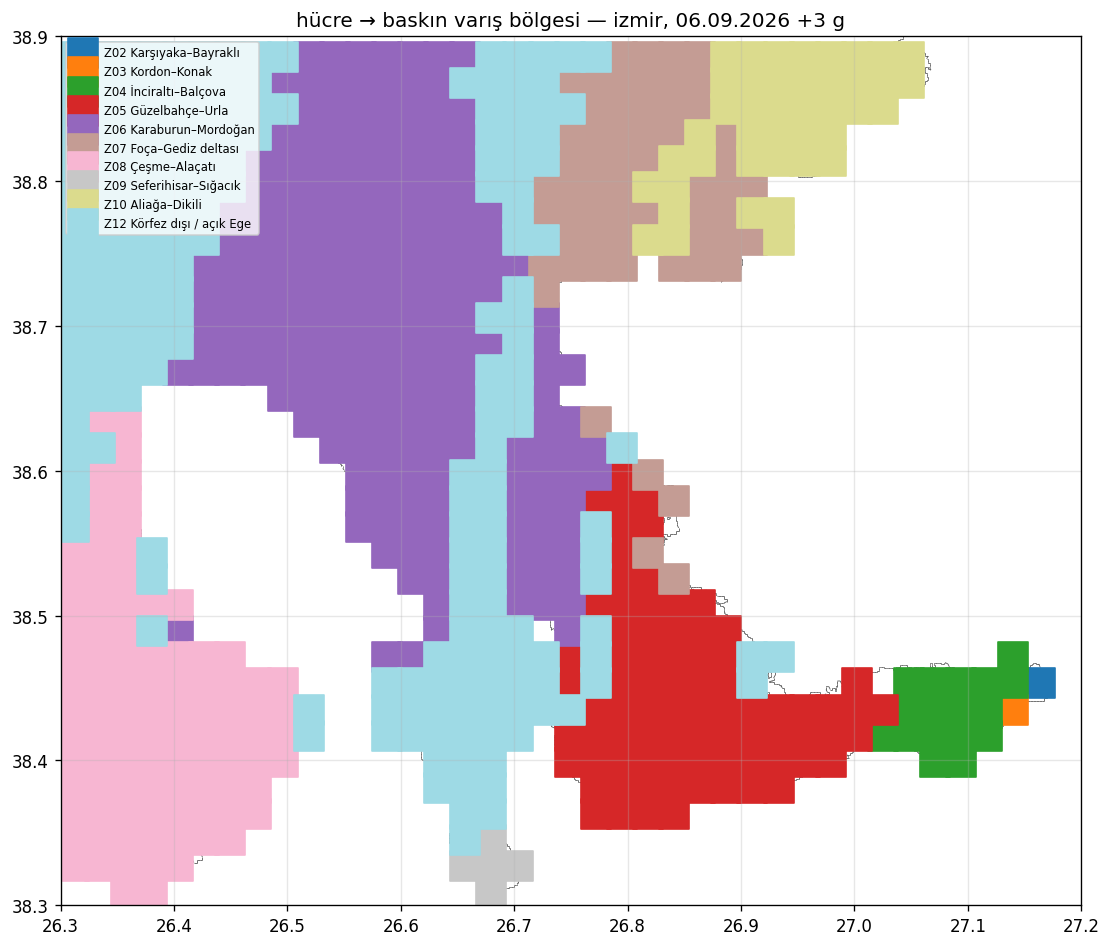
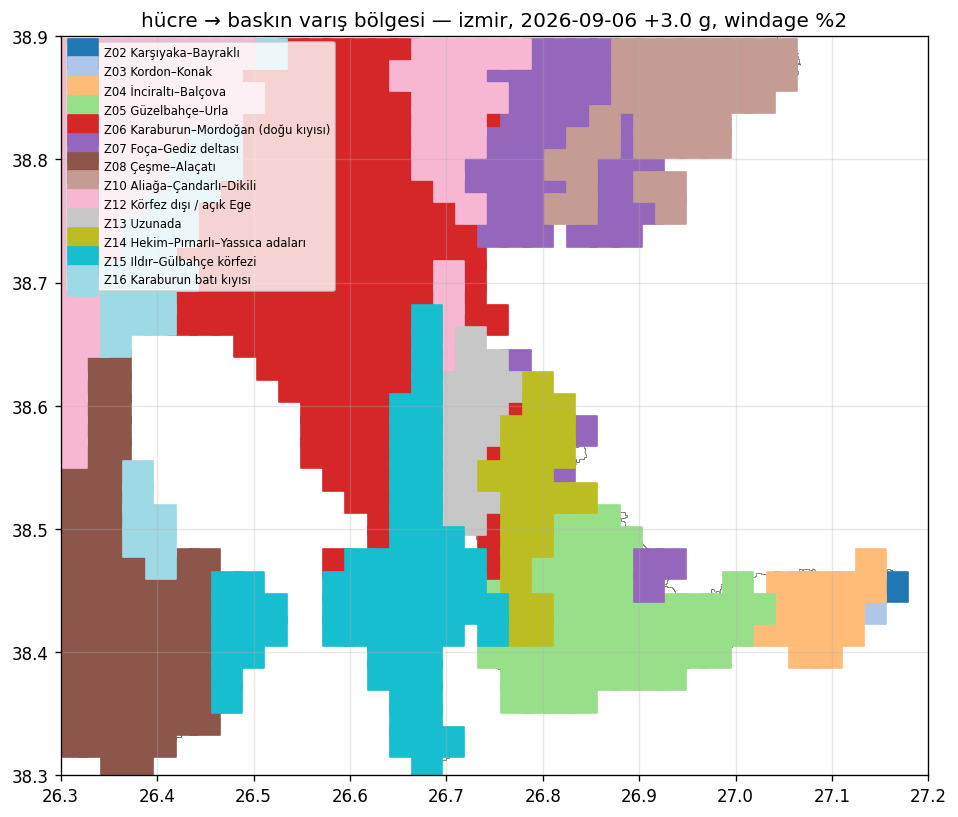
Kıyı bölgeleri yenilendi (adalar, Ildır, Karaburun batısı); toplulaştırma od_agg.py'de; 43_rezone.py
- coast_zones.csv: sıralı kutular, Z13–Z16, Z07/Z10 genişletme; Z00 tanımsız-kıyı uyarısı
- od_agg.py: bölge ataması, matrix/endpoints/geojson/görsel (41/42 ortak)
- 43_rezone.py: var olan koşuyu yeniden toplulaştır (origins.csv yoksa cells.geojson'dan)
- docs: ızgara sonucu ve Z12 analizi, karar kaydı

Claude-Session: https://claude.ai/code/session_01AkYXTcf6PzwN6k3LTpqAoM

diff --git a/scripts/od_agg.py b/scripts/od_agg.py
@@ -1,0 +1,142 @@
+"""OpenDrift sonuçlarını toplulaştırma (41/42/43 ortak): kıyı bölgesi ataması, matris, geojson, görsel.
+
+Bölge ataması: config/coast_zones.csv'deki kutular SIRAYLA denenir (ilk eşleşen kazanır; adalar büyük kutulardan önce).
+Kıyıya vuran ama hiçbir kutuya girmeyen nokta: model alanı (B_model) içindeyse "Z00 tanımsız kıyı" (uyarı basılır —
+kutu eksik demektir), dışındaysa "Z12 alan dışı". Denizde kalanlar da Z12 sayılır (bağlantı matrisinde "ulaşmadı").
+"""
+from __future__ import annotations
+import csv, json
+from pathlib import Path
+import numpy as np
+
+from common import CFG, bbox
+
+COSLAT = np.cos(np.deg2rad(38.5))
+Z00 = ("Z00", "tanımsız kıyı (kutu eksik)")
+
+def zones():
+    rows = list(csv.DictReader(open(CFG / "coast_zones.csv", encoding="utf-8")))
+    def fl(v):
+        try: return float(v)
+        except (TypeError, ValueError): return None
+    return [(r["zone_id"], r["name"], *(fl(r.get(k)) for k in ("lon_min", "lon_max", "lat_min", "lat_max"))) for r in rows]
+
+def zone_of(lon, lat, Z, dom=None):
+    for zid, name, x0, x1, y0, y1 in Z:
+        if x0 is None: continue
+        if x0 <= lon <= x1 and y0 <= lat <= y1: return zid, name
+    if dom is not None and dom[0] <= lon <= dom[1] and dom[2] <= lat <= dom[3]: return Z00
+    return "Z12", "Körfez dışı / açık Ege"
+
+def zone_names(Z):
+    d = {z[0]: z[1] for z in Z}; d[Z00[0]] = Z00[1]; return d
+
+def assign_zones(lon, lat, stranded):
+    """Dizi halinde bölge kimliği; denizde kalanlar Z12."""
+    Z = zones(); dom = bbox("B_model")
+    out = np.array([zone_of(x, y, Z, dom)[0] if (np.isfinite(x) and s) else ("Z12" if np.isfinite(x) else "NA")
+                    for x, y, s in zip(lon, lat, stranded)], dtype=object)
+    n00 = int((out == "Z00").sum())
+    if n00: print(f"[agg] uyarı: {n00} parçacık alan içinde ama hiçbir kıyı kutusuna girmiyor (Z00) — coast_zones.csv'ye kutu ekle")
+    return out, Z
+
+def aggregate(out: Path, origins: list[dict], endpoints: dict, meta: dict):
+    """origins: [{origin, name, lon, lat}], endpoints: dict of arrays (origin_idx, lon, lat, stranded, t_rel, t_end).
+    Yazar: endpoints.csv, matrix.csv, summary.txt, (grid) cells.geojson; döner rows, zone dizisi."""
+    om = endpoints["origin_idx"]; lon = endpoints["lon"]; lat = endpoints["lat"]
+    stranded = endpoints["stranded"].astype(bool); t_rel = endpoints["t_rel"]; t_end = endpoints["t_end"]
+    zone, Z = assign_zones(lon, lat, stranded); zn = zone_names(Z)
+    zids = [z[0] for z in Z if z[0] != "Z12"] + ["Z00", "Z12"]
+    ids = [o["origin"] for o in origins]
+    with open(out / "endpoints.csv", "w", encoding="utf-8", newline="") as fh:
+        w = csv.writer(fh); w.writerow(["origin", "lon_end", "lat_end", "stranded", "t_release_h", "t_end_h", "zone_id"])
+        for i in range(len(lon)):
+            if np.isfinite(lon[i]): w.writerow([ids[om[i]], f"{lon[i]:.5f}", f"{lat[i]:.5f}", int(stranded[i]), f"{t_rel[i]:.0f}", f"{t_end[i]:.1f}", zone[i]])
+    rows = []
+    for k, o in enumerate(origins):
+        m = om == k; n = int(m.sum())
+        if n == 0: continue
+        r = {"origin": o["origin"], "name": o["name"], "lon": f"{float(o['lon']):.4f}", "lat": f"{float(o['lat']):.4f}", "n": n,
+             "stranded_frac": f"{stranded[m].mean():.3f}",
+             "t_strand_med_h": f"{np.median((t_end - t_rel)[m & stranded]):.1f}" if (m & stranded).any() else ""}
+        for z in zids: r[z] = f"{((zone == z) & m).sum() / n:.3f}"
+        dom = max([z for z in zids if z not in ("Z12", "Z00")] + ["Z12"], key=lambda z: float(r[z]))
+        r["dominant"] = dom; r["dominant_frac"] = r[dom]
+        rows.append(r)
+    with open(out / "matrix.csv", "w", encoding="utf-8", newline="") as fh:
+        w = csv.DictWriter(fh, fieldnames=list(rows[0].keys())); w.writeheader(); w.writerows(rows)
+    hdr = meta.get("header", "")
+    lines = [hdr, (f"kıyıya vuran toplam: %{100*stranded.mean():.0f}; medyan vurma süresi {np.median((t_end-t_rel)[stranded]):.1f} h"
+                   if stranded.any() else "kıyıya vuran yok"), ""]
+    tot = {z: float(np.mean([float(r[z]) for r in rows])) for z in zids}
+    lines.append("bölge payları (tüm salım noktaları ort.): " + ", ".join(f"{z} %{100*tot[z]:.0f}" for z in zids if tot[z] >= 0.005))
+    if meta.get("mode") == "sources":
+        lines += ["", f"{'kaynak':6s} {'ad':28s} {'vuran':>6s} {'süre':>6s}  baskın bölge"]
+        for r in rows: lines.append(f"{r['origin']:6s} {r['name'][:28]:28s} {100*float(r['stranded_frac']):5.0f}% {r['t_strand_med_h']:>6s}  {r['dominant']} {zn.get(r['dominant'],'')} %{100*float(r['dominant_frac']):.0f}")
+    else:
+        feats = [{"type": "Feature", "geometry": {"type": "Point", "coordinates": [float(r["lon"]), float(r["lat"])]},
+                  "properties": {k: (float(v) if k not in ("origin", "name", "dominant") and v != "" else v) for k, v in r.items()}} for r in rows]
+        json.dump({"type": "FeatureCollection", **{k: meta[k] for k in ("cell_km", "run", "start", "days") if k in meta},
+                   "zones": zn, "features": feats}, open(out / "cells.geojson", "w", encoding="utf-8"), ensure_ascii=False)
+    (out / "summary.txt").write_text("\n".join(lines), encoding="utf-8"); print("\n".join(lines))
+    return rows, zone, zn
+
+def mesh_coast(f: Path):
+    """Ağ sınır kenarları (yalnız bir üçgene ait kenarlar) → kıyı çizgisi parçaları."""
+    import xarray as xr
+    d = xr.open_dataset(f, decode_times=False)
+    x = d.SCHISM_hgrid_node_x.values; y = d.SCHISM_hgrid_node_y.values
+    tri = d.SCHISM_hgrid_face_nodes.values.astype(int) - 1
+    e = np.vstack([tri[:, [0, 1]], tri[:, [1, 2]], tri[:, [2, 0]]]); e.sort(axis=1)
+    u, c = np.unique(e, axis=0, return_counts=True); b = u[c == 1]
+    return [((x[i], y[i]), (x[j], y[j])) for i, j in b]
+
+def plot_matrix(out: Path, origins, endpoints, rows, zn, meta, coast_file=None):
+    import matplotlib; matplotlib.use("Agg"); import matplotlib.pyplot as plt
+    from matplotlib.collections import LineCollection
+    x0, x1, y0, y1 = bbox("B_model")
+    om = endpoints["origin_idx"]; lon = endpoints["lon"]; lat = endpoints["lat"]; stranded = endpoints["stranded"].astype(bool)
+    fig, ax = plt.subplots(figsize=(11, 8))
+    if coast_file and Path(coast_file).exists():
+        ax.add_collection(LineCollection(mesh_coast(Path(coast_file)), colors="0.35", linewidths=0.5, zorder=1))
+    title = f"{meta.get('run','')}, {meta.get('start','')} +{meta.get('days','')} g, windage %{100*float(meta.get('windage', 0.02)):.0f}"
+    if meta.get("mode") == "sources":
+        cmap = plt.get_cmap("tab20", len(origins))
+        for k, o in enumerate(origins):
+            m = (om == k) & stranded
+            if m.any(): ax.scatter(lon[m], lat[m], s=6, color=cmap(k), alpha=0.7)
+            ax.plot(float(o["lon"]), float(o["lat"]), "k^", ms=8); ax.annotate(o["origin"], (float(o["lon"]), float(o["lat"])), fontsize=8, xytext=(3, 3), textcoords="offset points")
+        act = ~stranded & np.isfinite(lon)
+        if act.any(): ax.scatter(lon[act], lat[act], s=4, color="0.5", alpha=0.5)
+        ax.set_title("kaynaklardan kıyıya vuranlar — " + title)
+    else:
+        cell_km = float(meta.get("cell_km", 1.0))
+        zl = sorted(set(r["dominant"] for r in rows)); cm = plt.get_cmap("tab20", max(len(zl), 1))
+        for j, z in enumerate(zl):
+            rr = [r for r in rows if r["dominant"] == z]
+            ax.scatter([float(r["lon"]) for r in rr], [float(r["lat"]) for r in rr], s=(cell_km * 9) ** 2, marker="s", color=cm(j), label=f"{z} {zn.get(z,'')}")
+        ax.legend(fontsize=7, loc="upper left"); ax.set_title("hücre → baskın varış bölgesi — " + title)
+    ax.set_xlim(x0, x1); ax.set_ylim(y0, y1); ax.set_aspect(1 / COSLAT); ax.grid(alpha=0.3)
+    fig.savefig(out / "matrix.png", dpi=120, bbox_inches="tight"); plt.close(fig)
+
+def endpoints_from_result(ds):
+    """OpenDrift o.result → endpoints sözlüğü (origin_idx, lon, lat, stranded, t_rel, t_end)."""
+    omv = ds["origin_marker"].values
+    om = (np.nanmax(omv, axis=1) if omv.ndim == 2 else omv)
+    om = np.where(np.isfinite(om), om, 0).astype(int)
+    lon = ds["lon"].ffill("time").isel(time=-1).values; lat = ds["lat"].ffill("time").isel(time=-1).values
+    stat = ds["status"].values.astype(float); fm = ds["status"].attrs.get("flag_meanings", "").split(); meaning = {i: n for i, n in enumerate(fm)}
+    last = np.array([r[np.isfinite(r)][-1] if np.isfinite(r).any() else np.nan for r in stat])
+    stranded = np.array([meaning.get(int(v), "?") == "stranded" if np.isfinite(v) else False for v in last])
+    tv = ds["time"].values; hours = (tv - tv[0]) / np.timedelta64(1, "h")
+    t_end = np.array([hours[np.where(np.isfinite(r))[0][-1]] if np.isfinite(r).any() else np.nan for r in stat])
+    t_rel = np.array([hours[np.where(np.isfinite(r))[0][0]] if np.isfinite(r).any() else np.nan for r in stat])
+    return {"origin_idx": om, "lon": lon, "lat": lat, "stranded": stranded, "t_rel": t_rel, "t_end": t_end}
+
+def endpoints_from_csv(p: Path, origins):
+    idx = {o["origin"]: k for k, o in enumerate(origins)}
+    rows = list(csv.DictReader(open(p, encoding="utf-8")))
+    return {"origin_idx": np.array([idx[r["origin"]] for r in rows]),
+            "lon": np.array([float(r["lon_end"]) for r in rows]), "lat": np.array([float(r["lat_end"]) for r in rows]),
+            "stranded": np.array([r["stranded"] == "1" for r in rows]),
+            "t_rel": np.array([float(r["t_release_h"]) for r in rows]), "t_end": np.array([float(r["t_end_h"]) for r in rows])}

diff --git a/scripts/42_release_matrix.py b/scripts/42_release_matrix.py
@@ -18,6 +18,7 @@ import xarray as xr
 from common import RUNS, CFG, params, bbox
 import importlib
 m41 = importlib.import_module("41_opendrift_schism")
+import od_agg as agg
 
 P = params(); S = P.get("schism", {})
 COSLAT = np.cos(np.deg2rad(38.5))
@@ -29,19 +30,6 @@ def sea_nodes(f: Path, min_depth=2.0):
     x = d.SCHISM_hgrid_node_x.values; y = d.SCHISM_hgrid_node_y.values; h = d.depth.values
     ok = h >= min_depth
     return x[ok], y[ok]
-
-def mesh_coast(f: Path):
-    """Ağ sınır kenarları (yalnız bir üçgene ait kenarlar) → kıyı çizgisi parçaları [(x0,y0),(x1,y1)]."""
-    d = xr.open_dataset(f, decode_times=False)
-    x = d.SCHISM_hgrid_node_x.values; y = d.SCHISM_hgrid_node_y.values
-    tri = d.SCHISM_hgrid_face_nodes.values.astype(int) - 1
-    e = np.vstack([tri[:, [0, 1]], tri[:, [1, 2]], tri[:, [2, 0]]]); e.sort(axis=1)
-    u, c = np.unique(e, axis=0, return_counts=True); b = u[c == 1]
-    return [((x[i], y[i]), (x[j], y[j])) for i, j in b]
-
-def draw_coast(ax, f):
-    from matplotlib.collections import LineCollection
-    ax.add_collection(LineCollection(mesh_coast(f), colors="0.35", linewidths=0.5, zorder=1))
 
 def snap(lon, lat, sx, sy, max_km=2.0):
     """Noktayı en yakın deniz düğümüne kaydır (kara/sığ salımı önlemek için)."""
@@ -129,74 +117,17 @@ def main():
         o.seed_elements(lon=lo, lat=la, radius=radius, number=n_per, time=t, wind_drift_factor=a.windage, origin_marker=k)
     o.run(duration=dur, time_step=int(P["time_step_s"]), time_step_output=3600 * 3, outfile=str(out / "track.nc"))
 
-    # --- toplulaştırma
-    ds = o.result
-    omv = ds["origin_marker"].values
-    om = (np.nanmax(omv, axis=1) if omv.ndim == 2 else omv).astype(int)   # geç salınanlarda ilk adımlar NaN
-    lon = ds["lon"].ffill("time").isel(time=-1).values; lat = ds["lat"].ffill("time").isel(time=-1).values
-    stat = ds["status"].values.astype(float); fm = ds["status"].attrs.get("flag_meanings", "").split(); meaning = {i: n for i, n in enumerate(fm)}
-    last = np.array([r[np.isfinite(r)][-1] if np.isfinite(r).any() else np.nan for r in stat])
-    stranded = np.array([meaning.get(int(v), "?") == "stranded" if np.isfinite(v) else False for v in last])
-    tv = ds["time"].values; hours = (tv - tv[0]) / np.timedelta64(1, "h")
-    t_end = np.array([hours[np.where(np.isfinite(r))[0][-1]] if np.isfinite(r).any() else np.nan for r in stat])
-    t_rel = np.array([hours[np.where(np.isfinite(r))[0][0]] if np.isfinite(r).any() else np.nan for r in stat])
-    Z = m41.zones(); zids = [z[0] for z in Z]
-    zone = np.array([m41.zone_of(x, y, Z)[0] if np.isfinite(x) else "NA" for x, y in zip(lon, lat)])
-    with open(out / "endpoints.csv", "w", encoding="utf-8", newline="") as fh:
-        w = csv.writer(fh); w.writerow(["origin", "lon_end", "lat_end", "stranded", "t_release_h", "t_end_h", "zone_id"])
-        for i in range(len(lon)):
-            if np.isfinite(lon[i]): w.writerow([ids[om[i]], f"{lon[i]:.5f}", f"{lat[i]:.5f}", int(stranded[i]), f"{t_rel[i]:.0f}", f"{t_end[i]:.1f}", zone[i]])
-    rows = []
-    for k, i in enumerate(ids):
-        m = om == k; n = int(m.sum())
-        if n == 0: continue
-        r = {"origin": i, "name": names[i], "lon": f"{lon_s[k]:.4f}", "lat": f"{lat_s[k]:.4f}", "n": n,
-             "stranded_frac": f"{stranded[m].mean():.3f}", "at_sea_frac": f"{(~stranded[m]).mean():.3f}",
-             "t_strand_med_h": f"{np.median((t_end - t_rel)[m & stranded]):.1f}" if (m & stranded).any() else ""}
-        for z in zids: r[z] = f"{((zone == z) & m & stranded).sum() / n:.3f}"
-        r["Z12"] = f"{(((zone == 'Z12') & m) | (m & ~stranded)).sum() / n:.3f}"   # denizde kalan + alan dışı
-        dom = max(zids, key=lambda z: float(r[z])); r["dominant"] = dom; r["dominant_frac"] = r[dom]
-        rows.append(r)
-    with open(out / "matrix.csv", "w", encoding="utf-8", newline="") as fh:
-        w = csv.DictWriter(fh, fieldnames=list(rows[0].keys())); w.writeheader(); w.writerows(rows)
-    zn = {z[0]: z[1] for z in Z}
-    lines = [f"koşu: {a.run} | {a.mode} | {start:%Y-%m-%d} +{a.days:g} gün | {len(ids)} nokta, {len(pts)*n_per} parçacık | windage {a.windage} | rüzgâr {'yok' if a.no_wind else 'ERA5'}",
-             f"kıyıya vuran toplam: %{100*stranded.mean():.0f}; medyan vurma süresi {np.median((t_end-t_rel)[stranded]):.1f} h" if stranded.any() else "kıyıya vuran yok", ""]
-    if a.mode == "sources":
-        lines.append(f"{'kaynak':6s} {'ad':28s} {'vuran':>6s} {'süre':>6s}  baskın bölge")
-        for r in rows: lines.append(f"{r['origin']:6s} {r['name'][:28]:28s} {100*float(r['stranded_frac']):5.0f}% {r['t_strand_med_h']:>6s}  {r['dominant']} {zn.get(r['dominant'],'')} %{100*float(r['dominant_frac']):.0f}")
-    else:
-        tot = {z: 0.0 for z in zids}
-        for r in rows:
-            for z in zids: tot[z] += float(r[z])
-        lines.append("bölge payları (tüm hücreler ort.): " + ", ".join(f"{z} %{100*tot[z]/len(rows):.0f}" for z in zids if tot[z] > 0))
-        feats = [{"type": "Feature", "geometry": {"type": "Point", "coordinates": [float(r["lon"]), float(r["lat"])]},
-                  "properties": {k: (float(v) if k not in ("origin", "name", "dominant") and v != "" else v) for k, v in r.items()}} for r in rows]
-        json.dump({"type": "FeatureCollection", "cell_km": a.cell_km, "run": a.run, "start": a.start, "days": a.days,
-                   "zones": zn, "features": feats}, open(out / "cells.geojson", "w", encoding="utf-8"), ensure_ascii=False)
-    (out / "summary.txt").write_text("\n".join(lines), encoding="utf-8"); print("\n".join(lines))
-
-    # --- görsel
-    try:
-        import matplotlib; matplotlib.use("Agg"); import matplotlib.pyplot as plt
-        fig, ax = plt.subplots(figsize=(11, 8)); draw_coast(ax, f)
-        act = ~stranded & np.isfinite(lon)
-        if a.mode == "sources":
-            cmap = plt.get_cmap("tab20", len(ids))
-            for k in range(len(ids)):
-                m = (om == k) & stranded
-                if m.any(): ax.scatter(lon[m], lat[m], s=6, color=cmap(k), alpha=0.7)
-                ax.plot(lon_s[k], lat_s[k], "k^", ms=8); ax.annotate(ids[k], (lon_s[k], lat_s[k]), fontsize=8, xytext=(3, 3), textcoords="offset points")
-            if act.any(): ax.scatter(lon[act], lat[act], s=4, color="0.5", alpha=0.5, label="denizde")
-            ax.set_title(f"kaynaklardan kıyıya vuranlar — {a.run}, {start:%d.%m.%Y} +{a.days:g} g, windage %{a.windage*100:.0f}")
-        else:
-            zl = sorted(set(r["dominant"] for r in rows)); cm = plt.get_cmap("tab20", max(len(zl), 1))
-            for j, z in enumerate(zl):
-                rr = [r for r in rows if r["dominant"] == z]
-                ax.scatter([float(r["lon"]) for r in rr], [float(r["lat"]) for r in rr], s=(a.cell_km * 9) ** 2, marker="s", color=cm(j), label=f"{z} {zn.get(z,'')}")
-            ax.legend(fontsize=7, loc="upper left"); ax.set_title(f"hücre → baskın varış bölgesi — {a.run}, {start:%d.%m.%Y} +{a.days:g} g")
-        ax.set_xlim(x0, x1); ax.set_ylim(y0, y1); ax.set_aspect(1 / COSLAT); ax.grid(alpha=0.3)
-        fig.savefig(out / "matrix.png", dpi=120, bbox_inches="tight")
+    # --- toplulaştırma (od_agg ortak modülü; 43_rezone.py aynı işlevi endpoints.csv'den tekrar yapar)
+    origins = [{"origin": ids[k], "name": names[ids[k]], "lon": lon_s[k], "lat": lat_s[k]} for k in range(len(ids))]
+    with open(out / "origins.csv", "w", encoding="utf-8", newline="") as fh:
+        w = csv.DictWriter(fh, fieldnames=["origin", "name", "lon", "lat"]); w.writeheader()
+        for o in origins: w.writerow({**o, "lon": f"{o['lon']:.5f}", "lat": f"{o['lat']:.5f}"})
+    meta = {"mode": a.mode, "run": a.run, "start": a.start, "days": a.days, "windage": a.windage, "cell_km": a.cell_km,
+            "header": f"koşu: {a.run} | {a.mode} | {start:%Y-%m-%d} +{a.days:g} gün | {len(ids)} nokta, {len(pts)*n_per} parçacık | windage {a.windage} | rüzgâr {'yok' if a.no_wind else 'ERA5'}"}
+    json.dump(meta, open(out / "meta.json", "w", encoding="utf-8"), ensure_ascii=False)
+    ep = agg.endpoints_from_result(o.result)
+    rows, zone, zn = agg.aggregate(out, origins, ep, meta)
+    try: agg.plot_matrix(out, origins, ep, rows, zn, meta, coast_file=f)
     except Exception as e:  # noqa: BLE001
         log("çizim atlandı:", e)
     log("çıktılar:", out)

diff --git a/scripts/43_rezone.py b/scripts/43_rezone.py
@@ -1,0 +1,41 @@
+"""Var olan bir 42 koşusunu (endpoints.csv + origins.csv/cells.geojson) OpenDrift'i tekrar koşturmadan,
+güncel config/coast_zones.csv ile yeniden toplulaştır: matrix.csv, summary.txt, cells.geojson, matrix.png yenilenir.
+
+Kullanım:
+    python scripts/43_rezone.py --dir runs/opendrift/matrix_izmir3d_grid_20260906
+"""
+from __future__ import annotations
+import argparse, csv, json
+from pathlib import Path
+
+from common import RUNS
+import od_agg as agg
+
+def main():
+    ap = argparse.ArgumentParser(); ap.add_argument("--dir", required=True); ap.add_argument("--coast", default=None, help="kıyı çizgisi için 40 dosyası (schism_surface.nc)")
+    a = ap.parse_args(); out = Path(a.dir)
+    if not out.is_absolute(): out = (RUNS.parent / out) if not out.exists() else out
+    meta = json.load(open(out / "meta.json", encoding="utf-8")) if (out / "meta.json").exists() else {}
+    if (out / "origins.csv").exists():
+        origins = list(csv.DictReader(open(out / "origins.csv", encoding="utf-8")))
+    elif (out / "cells.geojson").exists():          # eski koşu (origins.csv yok): hücre merkezleri geojson'dan
+        g = json.load(open(out / "cells.geojson", encoding="utf-8"))
+        origins = [{"origin": f["properties"]["origin"], "name": f["properties"].get("name", f["properties"]["origin"]),
+                    "lon": f["geometry"]["coordinates"][0], "lat": f["geometry"]["coordinates"][1]} for f in g["features"]]
+        meta.setdefault("mode", "grid"); meta.setdefault("cell_km", g.get("cell_km", 1.0))
+        for k in ("run", "start", "days"): meta.setdefault(k, g.get(k, ""))
+    else:                                           # eski kaynak koşusu: matrix.csv'den
+        origins = [{"origin": r["origin"], "name": r["name"], "lon": r["lon"], "lat": r["lat"]} for r in csv.DictReader(open(out / "matrix.csv", encoding="utf-8"))]
+        meta.setdefault("mode", "sources")
+    if "header" not in meta:
+        meta["header"] = (out / "summary.txt").read_text(encoding="utf-8").splitlines()[0] if (out / "summary.txt").exists() else out.name
+    ep = agg.endpoints_from_csv(out / "endpoints.csv", origins)
+    rows, zone, zn = agg.aggregate(out, origins, ep, meta)
+    coast = a.coast or (RUNS / "schism" / str(meta.get("run", "izmir")) / "opendrift" / "schism_surface.nc")
+    try: agg.plot_matrix(out, origins, ep, rows, zn, meta, coast_file=coast)
+    except Exception as e:  # noqa: BLE001
+        print("[43] çizim atlandı:", e)
+    print("[43] yenilendi:", out)
+
+if __name__ == "__main__":
+    main()

diff --git a/scripts/41_opendrift_schism.py b/scripts/41_opendrift_schism.py
@@ -41,18 +41,7 @@ def prepare_wind(start: datetime, end: datetime) -> Path:
     out = PROC / f"era5_wind_od_{start:%Y%m%d}_{end:%Y%m%d}.nc"
     ds.to_netcdf(out); return out
 
-def zones():
-    rows = list(csv.DictReader(open(CFG / "coast_zones.csv", encoding="utf-8")))
-    def fl(v):
-        try: return float(v)
-        except (TypeError, ValueError): return None
-    return [(r["zone_id"], r["name"], *(fl(r.get(k)) for k in ("lon_min", "lon_max", "lat_min", "lat_max"))) for r in rows]
-
-def zone_of(lon, lat, Z):
-    for zid, name, x0, x1, y0, y1 in Z:
-        if x0 is None: continue
-        if x0 <= lon <= x1 and y0 <= lat <= y1: return zid, name
-    return "Z12", "Körfez dışı / açık Ege"
+from od_agg import zones, zone_of   # bölge ataması ortak modülde (kutular sırayla; adalar önce)
 
 def main():
     ap = argparse.ArgumentParser()

diff --git a/docs/decisions.md b/docs/decisions.md
@@ -15,6 +15,7 @@ Tarih · karar · gerekçe. Yeni kararlar en üste.
 - 2026-09-19 · CMEMS sınır koşulları MED 1/24° kimlikleriyle (zos saatlik 2D; so/thetao/uo/vo günlük 3D); dfm_tools varsayılanı GLOBAL 1/12° olduğu için açıkça verildi.
 - 2026-09-19 · Çekirdek Delft3D FM'den SCHISM'e alındı. · İndirilen Delft3D FM Suite FlexNet lisansı istiyor; önceden derlenmiş çekirdek yalnız ücretli Service Package ile, ücretsiz yol Windows'ta kaynak derlemek (VS + Intel Fortran). SCHISM Ubuntu'da hazır paketlerle ~5 dk'da derlendi (test edildi); OpenDrift yerel SCHISM okuyucusu var. Ağ ve indirilen veriler taşınıyor (`docs/faz3-schism.md`).
 - 2026-09-19 · Gerçek ağ SCHISM'e dönüştürüldü ve bulutta duman testi geçti (2B, 6 saat, kararlı). · Delft3D adımındaki kıyı derinlik artıkları (NaN doldurma) düzeltildi; kıstırma düğümleri temizlendi. `runs/schism/izmir/` çalışmaya hazır; WSL2'de aynı komutla doğrulanacak.
+- 2026-09-20 · Kıyı bölgeleri yenilendi: kutular sırayla (adalar önce); Z13 Uzunada, Z14 orta körfez adaları, Z15 Ildır–Gülbahçe, Z16 Karaburun batı kıyısı eklendi; alan içi kutusuz kıyı "Z00" uyarısıyla yakalanır; Z12 = alan dışı + denizde kalan. Toplulaştırma `od_agg.py`'de; `43_rezone.py` koşuyu tekrarlamadan yeniden toplulaştırır. · 1 km ızgara koşusunda %31 "Z12"nin çoğu Koyun Adaları/Sakız'a (gerçek alan dışı) ve kutusu olmayan Ildır körfezi, Karaburun batısı ve orta körfez adalarınaydı.
 - 2026-09-20 · Kaynak → kıyı matrisi betiği (`42_release_matrix.py`): kaynak modu (sources.csv, 3 gün boyunca 6 saatlik salım) ve ızgara modu (web sitesi katmanı; `cells.geojson`). Kaynaklar en yakın ≥2 m derinlikli ağ düğümüne kaydırılır. · Bulut testi (2B alan, 6–9 Eylül): iç körfez doğu kaynakları → Karşıyaka–Bayraklı; Bostanlı/Mavişehir → İnciraltı; Gediz → Güzelbahçe–Urla. Tek haftalık K rüzgârı; mevsimsel genelleme yıllık koşuyla.
 - 2026-09-20 · 3B 7 günlük koşu kararlı; OpenDrift bağlantısı: SCHISM 3B koşusunun en üst sigma katmanı `reader_schism_native`'e `dahv` adıyla verilir (okuyucu enlem-boylam ağda 3B kullanamıyor). Rüzgâr ERA5, kıyı maskesi GSHHS f, Stokes drift şimdilik yok. · `40_schism_to_opendrift.py`, `41_opendrift_schism.py`; bulut testi: Bostanlı → %97 İnciraltı, 25 saat.
 - 2026-09-20 · 7 günlük 2B koşu (6–13 Eylül 2026, gerçek CMEMS+ERA5) yeni sınırla kararlı: hız maks 0,40 m/s, kuru düğüm 0; iç körfez medyan 1–3 cm/s. Bu koşu 2B referansı; 3B'ye geçiliyor. · `runs/schism/izmir/plots/summary.txt`, `docs/faz3-schism.md`.

diff --git a/docs/faz3-schism.md b/docs/faz3-schism.md
@@ -176,3 +176,21 @@ Sonraki: 7 günlük sonucu Sayın & Eronat desenleriyle karşılaştır; 3B (11 
   gidiyor; dış körfez KB'si alan dışına çıkıyor (`docs/matrix_grid_2d_test.png`). Tek haftalık K rüzgârı senaryosu — mevsimsel
   genelleme için yıllık koşu gerekir.
 
+## Izgara matrisi (3B yüzey, 1 km, 6–13 Eylül) ve kıyı bölgelerinin yenilenmesi — 20 Eylül 2026
+
+- Kullanıcı, `42 --mode grid --cell_km 1`: 2.627 deniz hücresi × 3 salım × 20 = 157.620 parçacık, **%100 kıyıya vurdu**,
+  medyan 15 saat. İlk sürümde %31 "Z12" çıktı; `endpoints.csv` incelendi: ~28.500 parçacık batı sınırından çıkıp Koyun
+  Adaları/Sakız'a (26,2–26,35°D) vurmuş (gerçek "alan dışı"), ~12.000 Ildır–Gülbahçe körfezine, ~4.500 Karaburun batı
+  kıyısına, ~2.000 orta körfez adalarına — bunlar kıyı kutularının kapsamadığı gerçek kıyılardı.
+- `config/coast_zones.csv` yenilendi: kutular **sırayla** denenir (ilk eşleşen); adalar önce. Yeni: Z13 Uzunada, Z14 Hekim–
+  Pırnarlı–Yassıca adaları, Z15 Ildır–Gülbahçe körfezi, Z16 Karaburun batı kıyısı; Z07 Çamaltı–Sasalı'yı, Z10 Çandarlı'yı
+  kapsayacak şekilde genişletildi; Z03/Z04 38,38'e indirildi. Alan içinde kutusuz kalan kıyı noktası "Z00" olarak sayılır
+  ve uyarı basılır (bulut testinde 0'a indi). Z12 = alan dışına çıkan + denizde kalan.
+- Toplulaştırma `scripts/od_agg.py`'ye alındı (41/42 ortak); `43_rezone.py` var olan koşuyu OpenDrift'i tekrar koşturmadan
+  yeni kutularla yeniden toplulaştırır (`origins.csv`/`meta.json` yoksa `cells.geojson`/`matrix.csv`'den okur).
+- Bulut (2B alan, 3 gün) ızgara haritası yeni kutularla: orta körfezin doğu yarısı Uzunada ve orta körfez adalarına, kuzey
+  yarısı Karaburun doğu kıyısına, güneybatı Ildır–Gülbahçe'ye; batı sınırına yakın hücreler alan dışına. Uzunada ve orta
+  körfez adaları K rüzgârında belirgin birer tuzak (`docs/matrix_grid_2d_test.png`).
+- Sınır: batıdan çıkan parçacıklar alan dışında yalnız rüzgârla sürüklenir (akıntı 0) — Yunan adalarına varış sayısı nitel.
+  Makale için alanın batıya (Sakız'a kadar) genişletilmesi düşünülebilir; şimdilik "alan dışı" olarak raporlanır.
+
